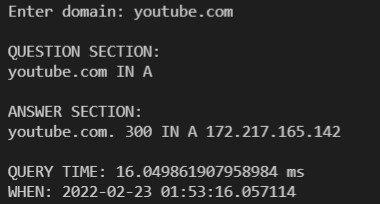
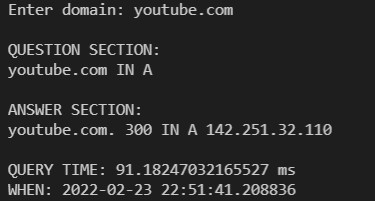
Updated mydig output

diff --git a/mydig.py b/mydig.py
@@ -1,8 +1,9 @@
 import dns
 import dns.query
-import dns.resolver
 import time
 import datetime
+import dns.rdtypes.IN.A
+import dns.rdtypes.ANY.CNAME
 
 root_servers = {
     "a": "198.41.0.4",
@@ -21,8 +22,7 @@ root_servers = {
 }
 
 def main():
-    # domain = input("Enter domain: ")
-    domain = "www.cnn.com"
+    domain = input("Enter domain: ")
     print()
 
     result = "QUESTION SECTION:" + "\n" + "{} {:<3}{:<5}".format(domain, "IN", "A") + "\n\n"
@@ -73,11 +73,13 @@ def resolve(domain, server, root_server, visited):
         # if an error occured, raise an exception
         rcode = response.rcode()
         if rcode != dns.rcode.NOERROR:
-            raise Exception("Error in DNS response")
+            raise Exception("Error in DNS response while resolving {}".format(domain))
 
         # if there is an answer, return the path
         if response.answer != None and len(response.answer) > 0:
             for a in response.answer:
+
+                # for every ip in the rrset object, check for A record and CNAME
                 for i in a:
                     if type(i) == dns.rdtypes.IN.A.A:
                         return str(a)
@@ -91,14 +93,13 @@ def resolve(domain, server, root_server, visited):
         if response.additional != None and len(response.additional) > 0:
             for a in response.additional:
 
-                # for every ip in
+                # for every ip in the rrset object, check for A record and CNAME
                 for i in a:
                     if type(i) == dns.rdtypes.IN.A.A:
                         resolution = resolve(domain, str(i), root_server, visited)
                         if resolution != None:
                             return resolution
                     elif type(i) == dns.rdtypes.ANY.CNAME.CNAME:
-                        print("used cname")
                         resolution = resolve(str(i), root_server, root_server, visited)
                         if resolution != None:
                             return resolution
@@ -106,13 +107,14 @@ def resolve(domain, server, root_server, visited):
         # iterate through authority servers and try to resolve recursively
         if response.authority != None and len(response.authority) > 0:
             for a in response.authority:
+
+                # for every ip in the rrset object, check for A record and CNAME
                 for i in a:
                     if type(i) == dns.rdtypes.IN.A.A:
                         resolution = resolve(domain, str(i), root_server)
                         if resolution != None:
                             return resolution
                     elif type(i) == dns.rdtypes.ANY.CNAME.CNAME:
-                        print("used cname")
                         resolution = resolve(str(i), root_server, root_server)
                         if resolution != None:
                             return resolution
